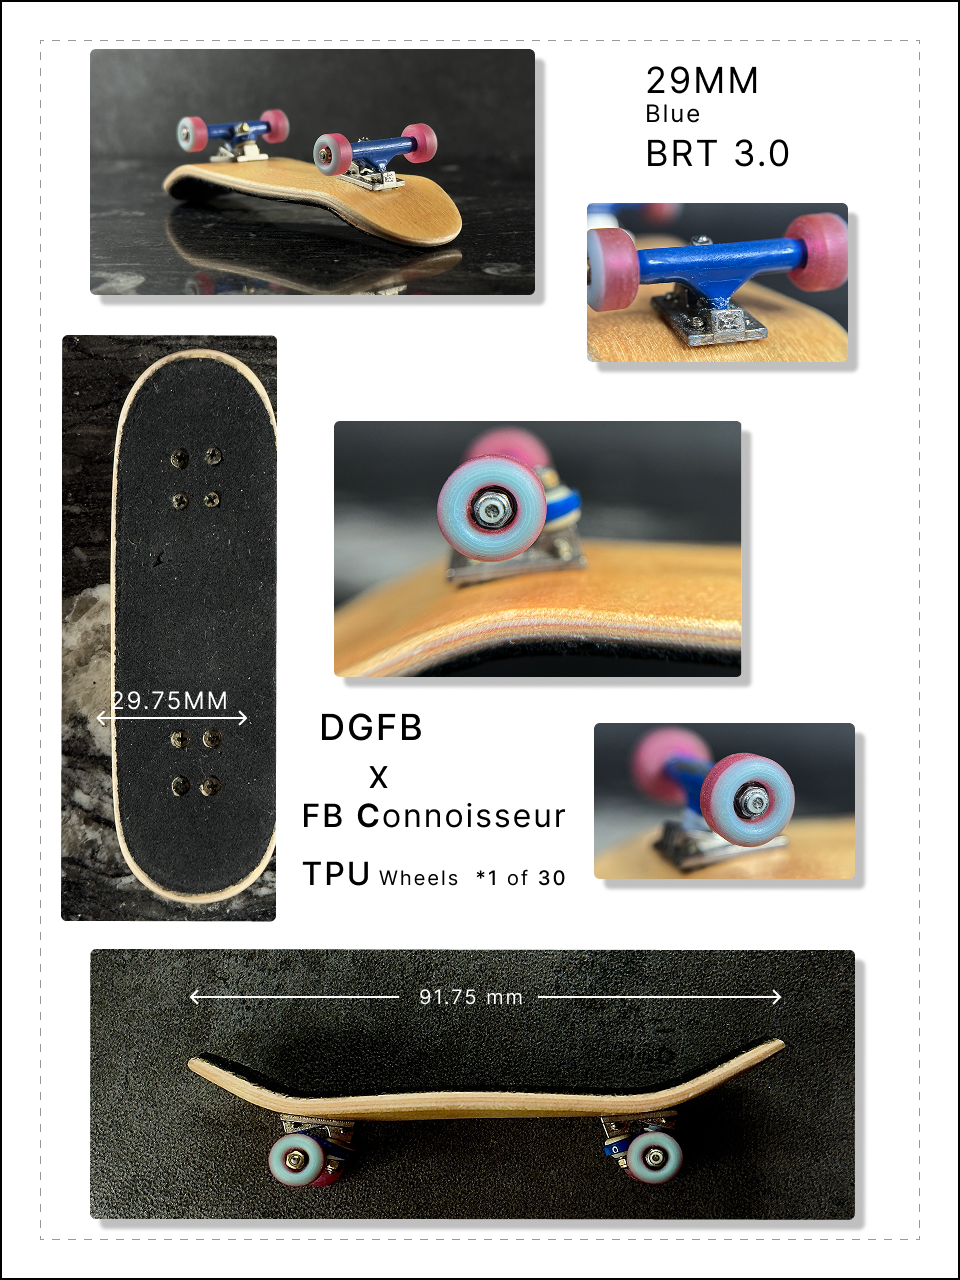
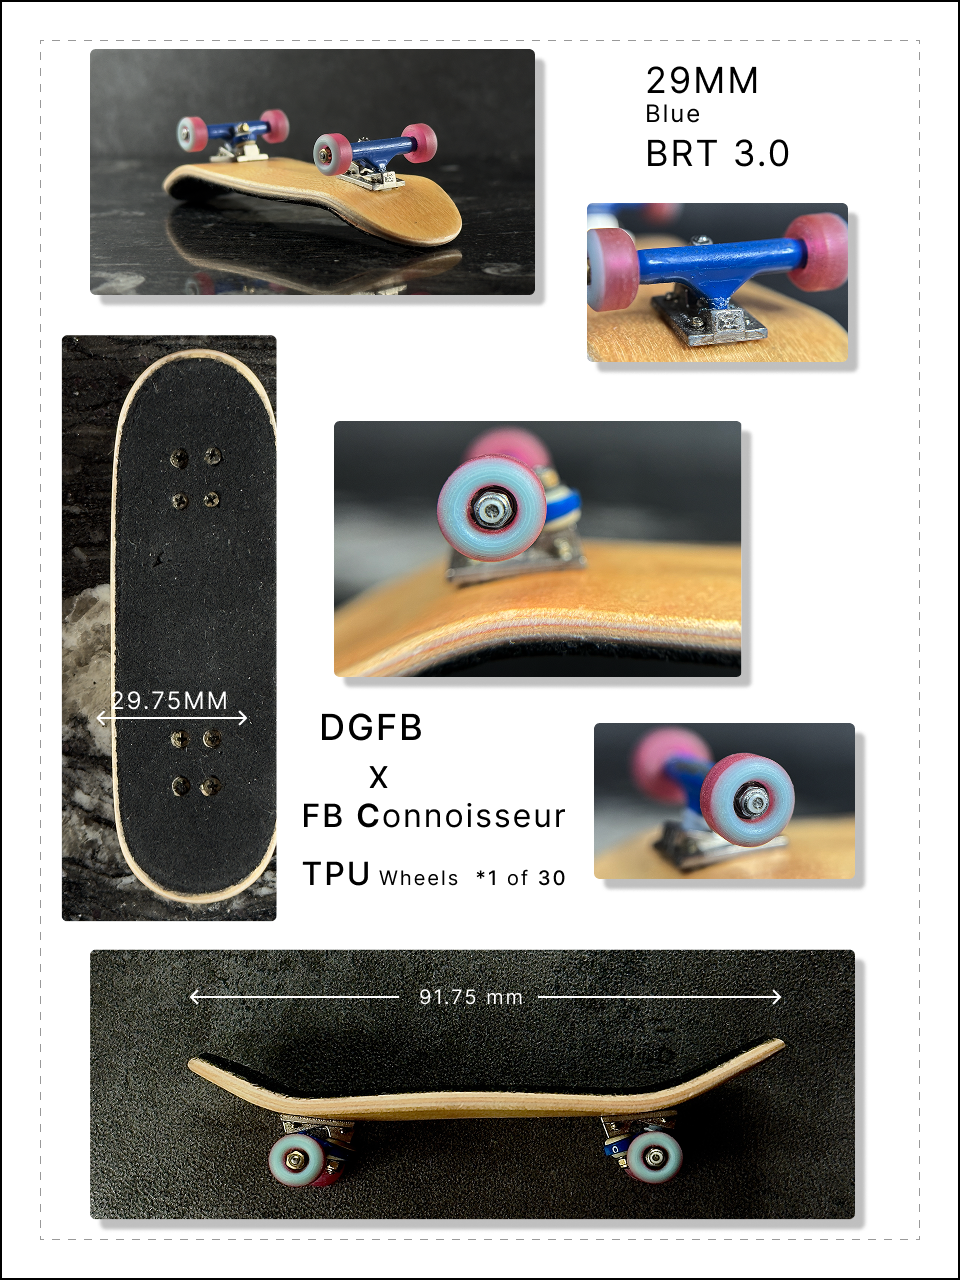
C IS THE SHEET, MADE CRISP (Dylan's ruling): the A/B exports come out of the tree — og-05-section-c.png is OG 05's one sheet, re-exported after the crisp pass (three Variant5 layers snapped to exact square: grip 89.882→90, profile −0.07→0, an arrow 179.992→180, centers preserved). The cropping myste

diff --git a/.claude/docs/lightbox.md b/.claude/docs/lightbox.md
@@ -178,7 +178,9 @@ The ZONE ruling (open-threads' og entry) got its site side the same night Dylan 
 
 ## 2026-08-27/28 — THE ZONE CENTERS, THE SLAB RETURNS, THE GROW BOUNCES
 
-**The C sheet (2026-08-28):** OG 05's third layout came through the standard loop (pasted canvas link → MCP `download_assets` export, 960×1280 native — no scale flag needed, the frame IS the 2×) as `site/img/og/og-05-section-c.png`, and `OG_SHEETS` now points at it. B and A stay on disk as history. Verified served at the 1440×900 reference: zone renders C, the ~70px right-glass overrun is the standing no-clamp behavior.
+**The C sheet (2026-08-28, RULED same day: C is THE sheet, A/B scrapped):** OG 05's third layout came through the standard loop (pasted canvas link → MCP `download_assets` export, 960×1280 native — no scale flag needed, the frame IS the 2×) as `site/img/og/og-05-section-c.png`, and `OG_SHEETS` points at it. Dylan's ruling supersedes "b stays": **A and B are deleted from the tree** (git history keeps them), C is the one sheet. Verified served at the 1440×900 reference: zone renders C, the ~70px right-glass overrun is the standing no-clamp behavior.
+
+**The "keeps cropping different" mystery, closed (2026-08-28):** each time Dylan compared Figma against the site, the site was serving the PREVIOUS export (avrg.cards on B while Figma showed C) — the loop's export was always faithful (proven by in-app node render vs REST export, identical). The lesson: until a push lands, the live site is one sheet behind by construction; compare against localhost. **The crisp pass** rode the same session: three Variant5 layers carried sloppy-nudge rotations (grip underside 89.882°→90, profile shot −0.07°→0, an arrow 179.992°→180), snapped exact via `use_figma` with centers preserved, re-exported over the same filename. Also learned: OG 05's Figma layer names are shuffled (the layer named IMG_7212 is the bottom PROFILE shot; the grip underside is IMG_7475, portrait only via its 90° box rotation) — don't trust layer names on that page, and OG 05 grew a component set (Default/V2/V3/V4) with Variant5 loose beside it; the loose Variant5 (183:864) is the exported source.
 
 **The B sheet (2026-08-27, RULED 2026-08-28: "b stays"):** OG 05's second hand-composed layout landed as `site/img/og/og-05-section-b.png` and IS the board's sheet — the A/B react closed same week; the A export stays on disk as history only, nothing references it. The loop gained a lesson: Figma copy-as-code is NOT an input — the zone renders one baked image, and the MCP export of the selected frame is the whole recipe. A measurement misalignment he caught (the 29.75MM arrow floating inboard of the deck) was IN the frame, not an export artifact — proven by canvas-render vs export comparison, then fixed by driving Figma (`use_figma`: both arrow halves stretched to span the deck rails 63→275 at y718, label re-centered; the arrowheads are stroke caps so resize doesn't distort them). Figma MCP gotcha hit repeatedly: responses >~20KB die in SSE truncation — page node reads in small chunks (names-only, boxes-only for listed indices).
 
